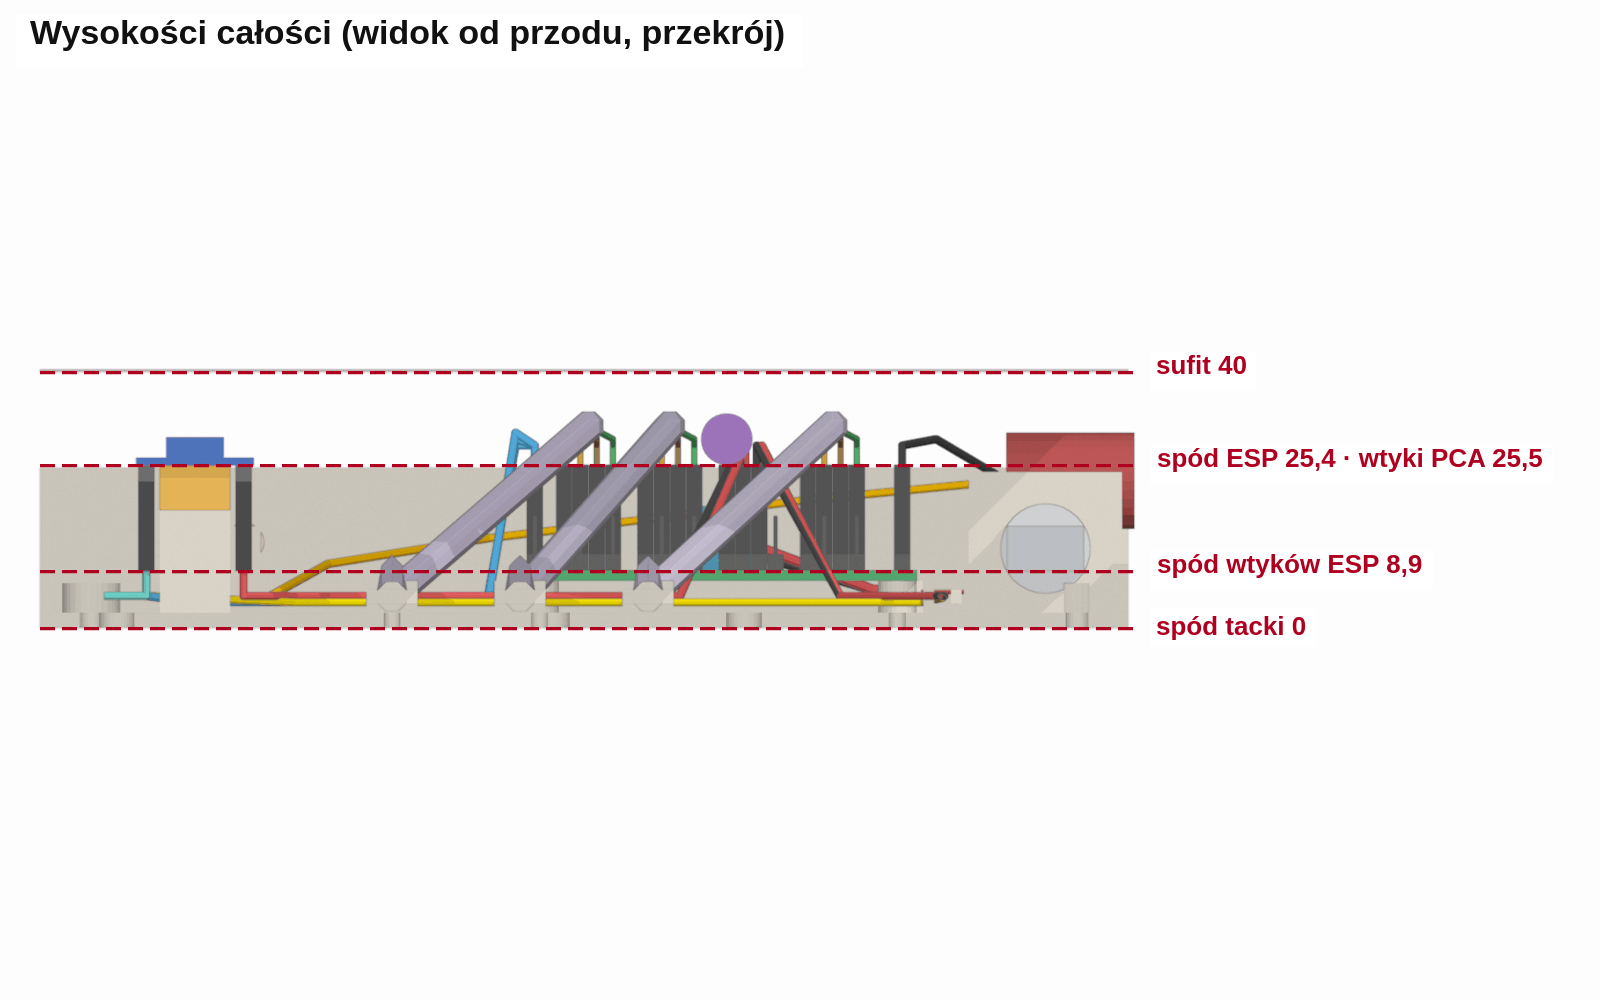
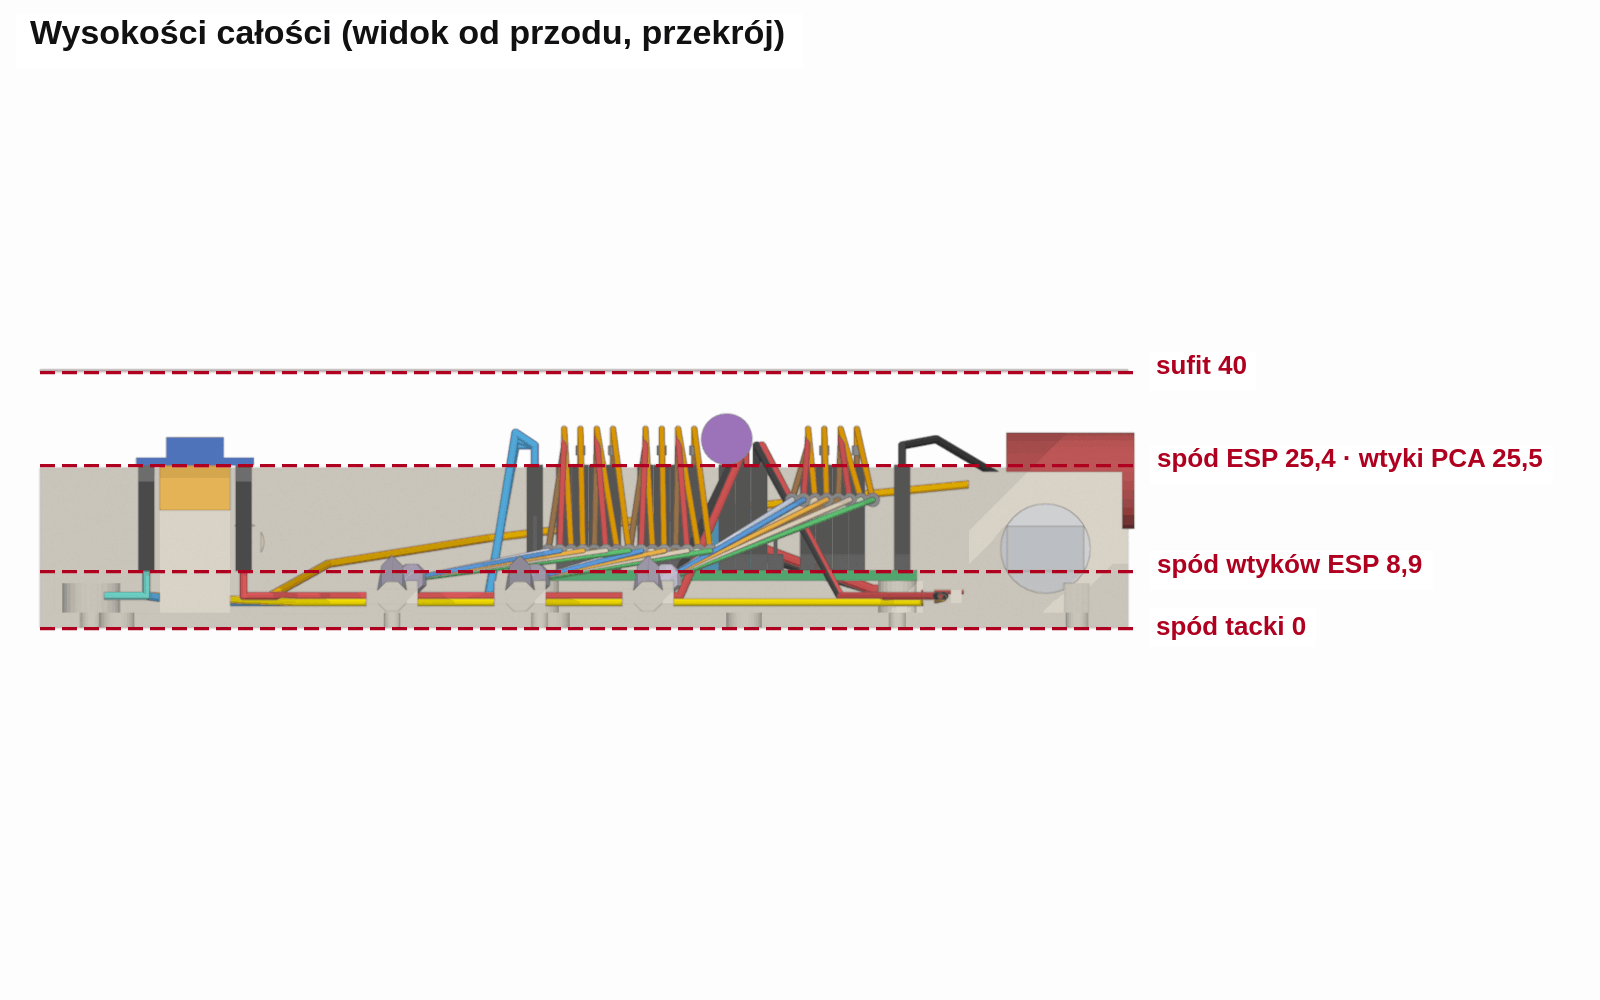
Obrazki skrętek pod wtyczki serw: model, rendery 07/07b/07c, schematy lutowania 07d i 07e, etykiety przycisku

Changed region(s): [[0.25, 0.403, 0.5625, 0.589]]

diff --git a/50-elektronika/montaz-elektroniki/schematy.py b/50-elektronika/montaz-elektroniki/schematy.py
@@ -1,0 +1,169 @@
+# Rysunki schematyczne skrętek do montaz-elektroniki.md, rozdział 5 (SVG → PNG przez rsvg-convert).
+# Użycie: python3 schematy.py   → img/krok07d-lutowanie-wtyczek.png, img/krok07e-serwa-strona-oczu.png
+# Wymaga: rsvg-convert (librsvg), czcionka Liberation Sans albo DejaVu Sans.
+import os, subprocess
+
+TU = os.path.dirname(os.path.abspath(__file__))
+IMG = os.path.join(TU, "img")
+FONT = "Liberation Sans, DejaVu Sans, Arial, sans-serif"
+
+# T568B: żyła → (nazwa, kolor bazowy, kolor paska lub None)
+ZYLA = {1: ("biało-pomarańczowa", "#ffffff", "#f07f12"), 2: ("pomarańczowa", "#f07f12", None),
+        3: ("biało-zielona", "#ffffff", "#1f9a2f"), 4: ("niebieska", "#1f5fd1", None),
+        5: ("biało-niebieska", "#ffffff", "#1f5fd1"), 6: ("zielona", "#1f9a2f", None),
+        7: ("biało-brązowa", "#ffffff", "#7a4a1e"), 8: ("brązowa", "#7a4a1e", None)}
+SERWO = {"b": ("brązowy", "#6b3a17"), "c": ("czerwony", "#d81e1e"), "p": ("pomarańczowy", "#f06a00")}
+KOSZ = "#5c5c5c"
+
+def tekst(x, y, t, size=22, kolor="#111", anchor="start", bold=False):
+    w = ' font-weight="bold"' if bold else ""
+    return f'<text x="{x}" y="{y}" font-family="{FONT}" font-size="{size}" fill="{kolor}" text-anchor="{anchor}"{w}>{t}</text>'
+
+def przewod(d, kolor, pasek=None, sz=10):
+    """d: ścieżka SVG; obrys ciemny, biała obwódka (czytelne skrzyżowania), kolor, ewentualny pasek."""
+    s = f'<path d="{d}" fill="none" stroke="#ffffff" stroke-width="{sz + 8}" stroke-linecap="round"/>'
+    s += f'<path d="{d}" fill="none" stroke="#333" stroke-width="{sz + 2}" stroke-linecap="round"/>'
+    s += f'<path d="{d}" fill="none" stroke="{kolor}" stroke-width="{sz}" stroke-linecap="round"/>'
+    if pasek:
+        s += f'<path d="{d}" fill="none" stroke="{pasek}" stroke-width="{sz}" stroke-dasharray="14 10"/>'
+    return s
+
+def zyla(d, z, sz=10):
+    _, k, p = ZYLA[z]
+    return przewod(d, k, p, sz)
+
+def koszulka(x, y, w=80, h=22):
+    return f'<rect x="{x}" y="{y - h / 2}" width="{w}" height="{h}" rx="6" fill="{KOSZ}" stroke="#222" stroke-width="2"/>'
+
+def zapisz(nazwa, w, h, tresc):
+    svg = (f'<svg xmlns="http://www.w3.org/2000/svg" width="{w}" height="{h}" viewBox="0 0 {w} {h}">'
+           f'<rect width="{w}" height="{h}" fill="#ffffff"/>{tresc}</svg>')
+    p_svg = os.path.join(IMG, nazwa + ".svg")
+    open(p_svg, "w", encoding="utf-8").write(svg)
+    p_png = os.path.join(IMG, nazwa + ".png")
+    subprocess.run(["rsvg-convert", "-w", str(w), "-b", "white", "-o", p_png, p_svg], check=True)
+    os.remove(p_svg)
+    print("ZAPISANO", p_png)
+
+def strzalka_wym(x0, x1, y, t):
+    s = f'<line x1="{x0}" y1="{y}" x2="{x1}" y2="{y}" stroke="#b00020" stroke-width="3"/>'
+    for x, d in ((x0, 1), (x1, -1)):
+        s += f'<path d="M{x},{y} l{14 * d},-8 l0,16 z" fill="#b00020"/>'
+        s += f'<line x1="{x}" y1="{y - 16}" x2="{x}" y2="{y + 16}" stroke="#b00020" stroke-width="2"/>'
+    return s + tekst((x0 + x1) / 2, y - 14, t, 22, "#b00020", "middle", True)
+
+# ---------- krok07d: strona tacki – żyły do wtyczek odciętych od serw ----------
+def krok07d():
+    W, H = 1600, 1060
+    s = tekst(30, 52, "5  Strona tacki: żyły skrętki → 4 wtyczki odcięte od serw (T568B)", 34, bold=True)
+    s += tekst(30, 88, "każdy lut w koszulce · przewód wtyczki: brązowy GND, czerwony V+, pomarańczowy sygnał · brązowy od krawędzi płytki", 21, "#555")
+    # wiersze: (wtyczka, przewód wtyczki, żyła albo None = obcięty)
+    WIERSZE = []
+    grupy = [("A", "n", {"b": 5, "c": 4, "p": 1}), ("B", "n+1", {"b": None, "c": None, "p": 2}),
+             ("C", "n+2", {"b": 8, "c": 7, "p": 3}), ("D", "n+3", {"b": None, "c": None, "p": 6})]
+    y0, dy, dg = 190, 42, 66
+    yc = 0
+    for gi, (lit, kan, m) in enumerate(grupy):
+        for ri, r in enumerate("bcp"):
+            WIERSZE.append((lit, kan, r, m[r], y0 + gi * (3 * dy + dg) + ri * dy))
+    xj, xr, xk, xw, xp = 300, 470, 760, 840, 1180          # koniec płaszcza, początek prostej, koszulka, przewód wtyczki, wtyczka
+    yj = (WIERSZE[0][4] + WIERSZE[-1][4]) / 2
+    # płaszcz
+    s += f'<rect x="30" y="{yj - 20}" width="{xj - 30}" height="40" rx="8" fill="#9b8fb0" stroke="#333" stroke-width="2"/>'
+    s += tekst(40, yj - 34, "skrętka – długi odcinek", 22, bold=True)
+    s += tekst(40, yj + 52, "do keystone'a w dyni", 20, "#555")
+    # żyły → koszulka → przewód wtyczki
+    aktywne = [w for w in WIERSZE if w[3]]
+    for i, (lit, kan, r, z, y) in enumerate(aktywne):
+        ys = yj - 14 + i * 4
+        s += zyla(f"M{xj},{ys} C{xj + 90},{ys} {xr - 90},{y} {xr},{y} L{xk},{y}", z)
+    for lit, kan, r, z, y in aktywne:
+        nazwa, kol = SERWO[r]
+        s += przewod(f"M{xw},{y} L{xp},{y}", kol)
+        s += koszulka(xk - 10, y)
+        s += tekst(xr + 6, y - 12, f"żyła {z} ({ZYLA[z][0]})", 20, bold=True)
+        s += tekst(xw + 14, y - 12, nazwa, 18, "#444")
+    # obcięte brązowy i czerwony (B, D)
+    for lit, kan, r, z, y in WIERSZE:
+        if z is None:
+            nazwa, kol = SERWO[r]
+            s += przewod(f"M{xp - 40},{y} L{xp},{y}", kol)
+            s += f'<rect x="{xp - 64}" y="{y - 10}" width="28" height="20" rx="5" fill="{KOSZ}" stroke="#222" stroke-width="2"/>'
+            s += tekst(xp - 76, y + 7, f"{nazwa}: obcięty, zaizolowany", 19, "#444", "end")
+    # wtyczki i piny
+    for gi, (lit, kan, m) in enumerate(grupy):
+        ys = [w[4] for w in WIERSZE if w[0] == lit]
+        s += f'<rect x="{xp}" y="{ys[0] - 24}" width="64" height="{ys[2] - ys[0] + 48}" rx="5" fill="#202020"/>'
+        s += tekst(xp + 32, ys[1] + 12, lit, 34, "#ffffff", "middle", True)
+        for y, pin in zip(ys, ("GND", "V+", "sygnał")):
+            s += tekst(xp + 76, y + 7, pin, 19, "#333")
+        s += tekst(xp + 160, ys[1] - 4, f"wtyczka {lit}", 26, bold=True)
+        s += tekst(xp + 160, ys[1] + 26, f"→ kanał {kan}", 22)
+        if not m["b"]:
+            s += tekst(xp + 160, ys[1] + 54, "tylko sygnał", 22, "#b00020", bold=True)
+    # wymiary i opisy
+    s += f'<line x1="{xk + 20}" y1="{WIERSZE[0][4] - 12}" x2="{xk - 40}" y2="{WIERSZE[0][4] - 46}" stroke="#555" stroke-width="2"/>'
+    s += tekst(xk - 46, WIERSZE[0][4] - 44, "lut w koszulce", 20, "#333", "end")
+    s += strzalka_wym(xw - 40, xp, 128, "ok. 5 cm przewodu przy wtyczce")
+    yb = WIERSZE[-1][4] + 70
+    s += strzalka_wym(xj, xk + 70, yb, "płaszcz zdjęty ok. 80 mm")
+    s += tekst(30, H - 40, "n: lewa skrętka 0 · prawa 4 · duże oko 12.  Wtyczki A–D wpinasz w kolejne kanały n…n+3, brązowy przewód od krawędzi płytki (GND).", 21, "#111")
+    zapisz("krok07d-lutowanie-wtyczek", W, H, s)
+
+# ---------- krok07e: krótki odcinek – serwa lutowane do żył ----------
+def krok07e():
+    W, H = 1600, 1080
+    s = tekst(30, 52, "5  Krótki odcinek (keystone → oczy): serwa A–D lutowane wprost do żył", 34, bold=True)
+    s += tekst(30, 88, "każdy lut w koszulce · serwa A i B dzielą żyły 4 (V+) i 5 (GND), serwa C i D – żyły 7 (V+) i 8 (GND)", 21, "#555")
+    xj, xr, xk, xs = 300, 480, 760, 1150   # koniec płaszcza, początek prostej, koszulka, serwo
+    # serwa: litera, kanał, przewody od góry
+    serwa = [("A", "n", "pcb", 190), ("B", "n+1", "bcp", 400), ("C", "n+2", "pcb", 600), ("D", "n+3", "bcp", 810)]
+    yw = {}
+    for lit, kan, kol, yt in serwa:
+        for i, r in enumerate(kol):
+            yw[(lit, r)] = yt + i * 34
+    # żyła → wiersz koszulki, cele (serwo, przewód)
+    pol = [(1, [("A", "p")]), (4, [("A", "c"), ("B", "c")]), (5, [("A", "b"), ("B", "b")]), (2, [("B", "p")]),
+           (3, [("C", "p")]), (7, [("C", "c"), ("D", "c")]), (8, [("C", "b"), ("D", "b")]), (6, [("D", "p")])]
+    yk = {1: 190, 4: 285, 5: 375, 2: 468, 3: 600, 7: 695, 8: 785, 6: 878}
+    yj = (yk[1] + yk[6]) / 2
+    # wtyk RJ45 i płaszcz
+    s += f'<rect x="30" y="{yj - 30}" width="110" height="60" rx="6" fill="#e9eef2" stroke="#333" stroke-width="3"/>'
+    s += f'<rect x="20" y="{yj - 12}" width="14" height="24" fill="#c9d2da" stroke="#333" stroke-width="2"/>'
+    s += f'<rect x="140" y="{yj - 18}" width="{xj - 140}" height="36" rx="8" fill="#9b8fb0" stroke="#333" stroke-width="2"/>'
+    s += tekst(30, yj - 46, "wtyk RJ45 (T568B)", 22, bold=True)
+    s += tekst(30, yj + 62, "→ do keystone'a w dyni", 20, "#555")
+    # przewody serw (najpierw, żeby żyły i koszulki leżały na wierzchu)
+    for z, cele in pol:
+        for lit, r in cele:
+            y1 = yw[(lit, r)]
+            s += przewod(f"M{xk + 70},{yk[z]} C{xk + 200},{yk[z]} {xs - 170},{y1} {xs - 40},{y1} L{xs},{y1}", SERWO[r][1])
+    for i, (z, cele) in enumerate(pol):
+        y = yk[z]
+        ys = yj - 14 + i * 4
+        s += zyla(f"M{xj},{ys} C{xj + 90},{ys} {xr - 90},{y} {xr},{y} L{xk},{y}", z)
+        s += koszulka(xk - 10, y)
+        opis = " + ".join(f"{SERWO[r][0]} {lit}" for lit, r in cele)
+        s += tekst(xr + 6, y - 12, f"żyła {z} ({ZYLA[z][0]})", 20, bold=True)
+        s += tekst(xr + 6, y + 32, "→ " + ("razem: " if len(cele) > 1 else "") + opis, 18, "#444")
+    # serwa
+    for lit, kan, kol, yt in serwa:
+        s += f'<rect x="{xs}" y="{yt - 30}" width="190" height="{2 * 34 + 60}" rx="10" fill="#1f5fd1" stroke="#123" stroke-width="2"/>'
+        s += tekst(xs + 95, yt + 30, f"serwo {lit}", 28, "#ffffff", "middle", True)
+        s += tekst(xs + 95, yt + 62, f"kanał {kan}", 20, "#ffffff", "middle")
+    s += tekst(xs + 210, 224, "opisz serwo", 20, "#555")
+    s += tekst(xs + 210, 250, "literą i kanałem", 20, "#555")
+    # test przed lutowaniem serw
+    yb = 940
+    s += f'<rect x="30" y="{yb}" width="{W - 60}" height="110" rx="10" fill="#fff4f4" stroke="#b00020" stroke-width="3"/>'
+    s += f'<circle cx="95" cy="{yb + 55}" r="34" fill="#ffffff" stroke="#b00020" stroke-width="4"/>' + tekst(95, yb + 67, "V", 34, "#b00020", "middle", True)
+    s += tekst(150, yb + 42, "Przed lutowaniem serw zmierz ok. 5 V między żyłą 4 i 5 oraz między żyłą 7 i 8", 25, "#b00020", bold=True)
+    s += tekst(150, yb + 80, "(wolny koniec krótkiego odcinka; długi odcinek wpięty w PCA i keystone, krótki z wtykiem w keystone, zasilanie włączone)", 19, "#333")
+    s += tekst(xs - 10, 140, "n: lewa 0 · prawa 4 · duże oko 12", 20, "#333")
+    s += tekst(30, 140, "duże oko: A = L–P (12), B = G–D (13), C = powieka górna (14), D = powieka dolna (15)", 20, "#333")
+    zapisz("krok07e-serwa-strona-oczu", W, H, s)
+
+if __name__ == "__main__":
+    os.makedirs(IMG, exist_ok=True)
+    krok07d()
+    krok07e()

diff --git a/50-elektronika/montaz-elektroniki/render.py b/50-elektronika/montaz-elektroniki/render.py
@@ -36,6 +36,10 @@ def eY(k): return 18.3 + k * gp
 eDupBot = 25.4 - 2.5 - 14                         # 8,9
 SUFIT = 40
 gX, gY, gZ = 157.1, 48, 2.4 + 9 + 1
+SK = [(50, 55, 0), (63, 75, 4), (76, 95, 12)]       # skrętki: x nad otworem, x uchwytu, n (jak sk w elementy.scad)
+def skXg(s): return (chX(SK[s][2]) + chX(SK[s][2] + 3)) / 2
+def skTr(s, t): return (SK[s][1] + t * (skXg(s) - SK[s][1]), 20 + t * 16, 5 + t * (dupTop + 1))
+def skLut(s, k): return (skXg(s) + (k - 3.5) * 1.8, 26 if k % 2 else 33, 20 if s == 2 else 12)   # lut k: A brąz., A czerw., A pom., B pom., C brąz., C czerw., C pom., D pom.
 
 # ---------- kolory ----------
 def rgb(h): return tuple(int(h[i:i + 2], 16) / 255 for i in (1, 3, 5))
@@ -47,11 +51,14 @@ KOL = {
     "kondensator": "#7b3fb0", "kondWtyki": "#202020",
     "pirVCC": "#d81e1e", "pirGND": "#141414", "pirOUT": "#f2c200", "pirWtyki": "#202020",
     "przycisk": "#8b1a1a", "przyciskGND": "#141414", "przyciskSyg": "#ff8c00", "przyciskWtyk": "#202020",
-    "skL": "#8e7fa6", "skP": "#7f7896", "skD": "#9b8fb0", "skZyly": "#ffffff", "skWtyki": "#202020",
+    "skL": "#8e7fa6", "skP": "#7f7896", "skD": "#9b8fb0",
+    "skWtyczki": "#202020", "skPrzewBraz": "#6b3a17", "skPrzewCzerw": "#d81e1e", "skPrzewPom": "#f06a00", "skKoszulki": "#5c5c5c",
     "rezystor": "#e2c99a",
 }
-# T568B: żyła 1..8
+# T568B: żyła 1..8 (grupy skZyla1 … skZyla8)
 ZYLY = {1: "#f7c79a", 2: "#f07f12", 3: "#a8e0a0", 4: "#1f5fd1", 5: "#a9c4f0", 6: "#1f9a2f", 7: "#d2b48c", 8: "#7a4a1e"}
+for _z, _k in ZYLY.items():
+    KOL["skZyla%d" % _z] = _k
 GRUPY = list(KOL)
 
 def przygas(c):  # wcześniejsze elementy: jaśniej i szarzej
@@ -97,31 +104,6 @@ for g in GRUPY:
     o.name = g
     obj[g] = o
     o.data.materials.append(mat(rgb(KOL[g])))
-
-# żyły skrętek: kolor T568B wg najbliższego odcinka trasy (trasa jak skretkaZyla w elementy.scad)
-def trasy_zyl():
-    t = []
-    for n in (0, 4, 12):
-        xg = (chX(n) + chX(n + 3)) / 2
-        cel = {1: (chX(n), rowY[2]), 2: (chX(n + 1), rowY[2]), 3: (chX(n + 2), rowY[2]), 6: (chX(n + 3), rowY[2]),
-               4: (chX(n), rowY[1]), 5: (chX(n), rowY[0]), 7: (chX(n + 2), rowY[1]), 8: (chX(n + 2), rowY[0])}
-        for z, (x, y) in cel.items():
-            p = [Vector((xg, 36, dupTop + 6)), Vector((x, y - 3, dupTop + 4)), Vector((x, y, dupTop + 3)), Vector((x, y, dupTop))]
-            t.append((z, p))
-    return t
-def odl_odc(p, a, b):
-    ab = b - a
-    s = max(0.0, min(1.0, (p - a).dot(ab) / ab.length_squared))
-    return (a + ab * s - p).length
-o = obj["skZyly"]
-o.data.materials.clear()
-for z in range(1, 9):
-    o.data.materials.append(mat(rgb(ZYLY[z])))
-tr = trasy_zyl()
-for f in o.data.polygons:
-    c = f.center
-    best = min(((min(odl_odc(c, p[i], p[i + 1]) for i in range(3)), z) for z, p in tr))
-    f.material_index = best[1] - 1
 
 # kolory bazowe slotów (do przygaszania)
 BAZA = {g: [tuple(m.diffuse_color)[:3] for m in obj[g].data.materials] for g in GRUPY}
@@ -210,7 +192,7 @@ K3 = ["gniazdo", "wtykCC", "zasilCzerw", "zasilCzarny"]
 K4 = ["esp5V", "espG", "espI2C", "espPCAwtyki", "zapasESP"]
 K5 = ["kondensator", "kondWtyki"]
 K6 = ["pirVCC", "pirGND", "pirOUT", "pirWtyki", "przycisk", "przyciskGND", "przyciskSyg", "przyciskWtyk"]
-K7 = ["skL", "skP", "skD", "skZyly", "skWtyki"]
+K7 = ["skL", "skP", "skD", "skWtyczki", "skPrzewBraz", "skPrzewCzerw", "skPrzewPom", "skKoszulki"] + ["skZyla%d" % z for z in range(1, 9)]
 WSZ = K1 + K2 + K3 + K4 + K5 + K6 + K7 + ["rezystor"]
 ISO = (-0.75, -1.35, 1.25)
 CZ, NI, ZI, ZO, PO, FI, SZ = "#d81e1e", "#1e78d8", "#1f8a3a", "#c89a00", "#f28c1c", "#7b3fb0", "#333333"
@@ -309,44 +291,46 @@ krok("krok05-kondensator", "4.5  Kondensator na kanale 8 (leży poziomo do przod
 krok("krok06-pir-przycisk", "4.6  PIR i przycisk", K6, K1 + K2 + K3 + K4 + K5, ((90, 50, 12), ISO, 190), [
     ("PIR (od szufladki): VCC, GND, OUT", (150, 10, 5), (1300, 860), ZO),
     ("PIR OUT → ESP pin 10", (40, 22, 4), (330, 860), ZO),
-    ("przycisk → ESP pin 4", (70, 82, 14), (350, 200), "#ff8c00"),
-    ("przycisk → GND prawej listwy", (bokXP, bokY(0), dupTop + 3), (1180, 160), SZ),
+    ("przycisk nóżka 1 → ESP pin 4", (70, 82, 14), (350, 200), "#ff8c00"),
+    ("przycisk nóżka 2 → GND prawej listwy", (bokXP, bokY(0), dupTop + 3), (1130, 160), SZ),
     ("PIR VCC / GND → kanał 10", (125, 30, 5), (900, 880), CZ),
 ])
 krok("krok06b-kanal10-przycisk", "4.6  Zbliżenie: kanał 10 i prawa listwa", K6, K1 + K2 + K3 + K4 + K5, ((118, 52, 22), (0.2, -1.0, 1.5), 55), [
     ("kanał 10 V+ ← PIR VCC (czerwony)", (chX(10), rowY[1], dP), (480, 840), CZ),
     ("kanał 10 GND ← PIR GND (czarny)", (chX(10), rowY[0], dupTop - 2), (1000, 900), SZ),
-    ("prawa listwa GND ← przycisk", (bokXP, bokY(0), dP), (1250, 250), SZ),
+    ("prawa listwa GND ← przycisk nóżka 2", (bokXP, bokY(0), dP), (1180, 250), SZ),
     ("kanał 8: kondensator", (chX(8) - 1, 40.5, dupTop + 4), (330, 300), FI),
     ("kanał 9: ESP", (chX(9), rowY[1], dP + 1.5), (380, 500), CZ),
 ])
 krok("krok06c-esp-piny", "4.6  PIR i przycisk na pinach ESP (od przodu z dołu, tacka ukryta)", K6, K2 + K4, SPOD, [
     ("10 ← PIR OUT", pinESP(0, 5, 6.5), (260, None), ZO),
-    ("4 ← przycisk", pinESP(1, 3, 6.5), (1400, 560), "#ff8c00"),
+    ("4 ← przycisk nóżka 1", pinESP(1, 3, 6.5), (1360, 560), "#ff8c00"),
 ], ukryj=[g for g in NIE_ESP if g not in K4 + K6] + ["przycisk"])
 krok("krok07-skretki", "4.7  Skrętki do oczu (po jednej, z testem)", K7, K1 + K2 + K3 + K4 + K5 + K6, ((90, 35, 18), ISO, 150), [
     ("lewa: kanały 0–3", (55, 9, 12), (330, 850), FI),
     ("prawa: kanały 4–7", (75, 9, 12), (760, 900), FI),
     ("duże oko: kanały 12–15", (95, 9, 12), (1200, 870), FI),
     ("do otworu w płycie", (63, 6, 40), (450, 200), FI),
+    ("4 wtyczki serw A–D na skrętkę", (chX(13), rowY[1] - 3.8, dupTop - 4), (1250, 330), SZ),
+    ("8 lutów w koszulce na skrętkę", skLut(1, 6), (260, 560), SZ),
 ])
-krok("krok07b-skretki-listwa", "4.7  Zbliżenie: skrętki na listwie kanałów", K7, K1 + K2 + K3 + K4 + K5 + K6, ((103, 48, 24), (0, -1.0, 1.6), 62), [
-    ("lewa: 0–3", (chX(1), rowY[2], dupTop + 3), (330, 200), FI),
-    ("prawa: 4–7", (chX(5), rowY[2], dupTop + 3), (760, 200), FI),
-    ("duże oko: 12–15", (chX(13), rowY[2], dupTop + 3), (1300, 200), FI),
-    ("kanał 0 (sprawdź na płytce)", (chX(0), rowY[2], dupTop + 3), (260, 880), SZ),
+krok("krok07b-skretki-listwa", "4.7  Zbliżenie: wtyczki skrętek na listwie kanałów", K7, K1 + K2 + K3 + K4 + K5 + K6, ((103, 47, 25), (0.1, -1.0, 0.9), 62), [
+    ("lewa: 0–3", (chX(1), rowY[2], dupTop + 1), (330, 200), FI),
+    ("prawa: 4–7", (chX(5), rowY[2], dupTop + 1), (760, 200), FI),
+    ("duże oko: 12–15", (chX(13), rowY[2], dupTop + 1), (1300, 200), FI),
+    ("kanał 0 (sprawdź na płytce)", (chX(0), rowY[2], dupTop + 1), (260, 880), SZ),
     ("kanały 8–10: kond., ESP, PIR", (chX(9), rowY[1], dP + 2), (1100, 900), SZ),
     ("11: wolny", (chX(11), rowY[2], 17.5), (1480, 520), "#888888"),
+    ("brązowy od krawędzi (GND)", (chX(4) - 1.5, 40, 20), (700, 900), "#6b3a17"),
 ])
-krok("krok07c-zyly-kanaly0-3", "4.7  Żyły lewej skrętki (kanały 0–3, T568B)", K7, K1 + K2 + K3 + K4 + K5 + K6, ((chX(1.5) - 1.27, 48, 27), (-0.55, -1.0, 0.9), 34), [
-    ("żyła 1 → sygnał 0", (chX(0), rowY[2], dP), (300, 200), "#f07f12"),
-    ("żyła 2 → sygnał 1", (chX(1), rowY[2], dP), (720, 160), "#f07f12"),
-    ("żyła 3 → sygnał 2", (chX(2), rowY[2], dP), (1100, 160), ZI),
-    ("żyła 6 → sygnał 3", (chX(3), rowY[2], dP), (1400, 280), ZI),
-    ("żyła 4 → V+ kanału 0", (chX(0), rowY[1], dP), (230, 470), NI),
-    ("żyła 5 → GND kanału 0", (chX(0), rowY[0], dP), (240, 760), NI),
-    ("żyła 7 → V+ kanału 2", (chX(2), rowY[1], dP), (1400, 560), "#7a4a1e"),
-    ("żyła 8 → GND kanału 2", (chX(2), rowY[0], dP), (1350, 800), "#7a4a1e"),
+krok("krok07c-zyly-kanaly0-3", "4.7  Wtyczki lewej skrętki na kanałach 0–3", K7, K1 + K2 + K3 + K4 + K5 + K6, ((chX(1) + 1.27, 46, 26), (-0.6, -1.0, 0.65), 40), [
+    ("wtyczka A (kanał 0): żyły 5 / 4 / 1", (chX(0), rowY[1] - 3.8, 19), (300, 640), SZ),
+    ("B (kanał 1): tylko żyła 2", (chX(1), rowY[2], dupTop + 3.6), (380, 110), "#f06a00"),
+    ("C (kanał 2): 8 / 7 / 3", (chX(2), rowY[1], dupTop + 3.2), (1000, 110), SZ),
+    ("D (kanał 3): tylko żyła 6", (chX(3), rowY[2], dupTop + 3.6), (1350, 200), "#f06a00"),
+    ("brązowy od krawędzi (GND)", (chX(0), rowY[0], dupTop + 1), (280, 470), "#6b3a17"),
+    ("B, D: brązowy i czerwony obcięte, zaizolowane", (chX(3), rowY[0], dupTop + 2.8), (1180, 470), "#5c5c5c"),
+    ("brązowy GND · czerwony V+ · pomarańczowy sygnał", None, (800, 950), "#f06a00"),
 ], legenda=False)
 krok("krok08-wysokosci", "Wysokości całości (widok od przodu, przekrój)", WSZ, [], ((118.75, 40, 20), (0, -1, 0), 250, 28), [],
      sufit=True, poziomy=[

diff --git a/50-elektronika/montaz-elektroniki.md b/50-elektronika/montaz-elektroniki.md
@@ -4,7 +4,7 @@ Stan 28.10. Pinout i rysunki: `polaczenia.md`, sekcja „Dynia: połączenia doc
 
 Wymiary wtyków i listew to wartości typowe (obudowa Dupont 14 mm, plastik listwy pinów 2,5 mm). Przed klejeniem ESP sprawdź jedną wtyczką (krok 2).
 
-Obrazki wygenerowano z modelu `montaz-elektroniki/elementy.scad` (tacka z commita 8a07059; render: `montaz-elektroniki/render.py`), wymiary kupnych części są typowe; kontrola kolizji (`eksport.sh`): wtyki, ESP, kondensator, przycisk i PCA bez kolizji z tacką, przewody i elementy poniżej spodu płyty, kolizja tylko rezystora z tylnym pasem.
+Obrazki wygenerowano z modelu `montaz-elektroniki/elementy.scad` (tacka z commita 8a07059; render: `montaz-elektroniki/render.py`; schematy lutowania 07d i 07e: `montaz-elektroniki/schematy.py`), wymiary kupnych części są typowe; kontrola kolizji (`eksport.sh`): wtyki, ESP, kondensator, przycisk i PCA bez kolizji z tacką, przewody i elementy poniżej spodu płyty, kolizja tylko rezystora z tylnym pasem.
 
 ![Całość na tacce](montaz-elektroniki/img/krok00-calosc.png)
 
@@ -40,7 +40,7 @@ Obrazki wygenerowano z modelu `montaz-elektroniki/elementy.scad` (tacka z commit
 | 9 | PIR GND | kanał 10 GND | czarny | 400, przyciąć | kabel DFRobot na PIR (środkowy przewód = OUT – sprawdź) / lut + żeńska połówka |
 | 10 | PIR OUT | ESP 10 | żółty | 450, przyciąć | kabel DFRobot na PIR (środkowy przewód = OUT – sprawdź) / lut + żeńska połówka |
 | 11 | przycisk nóżka 2 | prawa listwa GND | czarny | 100 | lut + koszulka / Dupont |
-| 12 | przycisk nóżka 1 | ESP 4 | żółty | 260 | lut + koszulka / Dupont |
+| 12 | przycisk nóżka 1 | ESP 4 | pomarańczowy (żółty ma PIR OUT) | 260 | lut + koszulka / Dupont |
 | 13 | ESP 3 | – (zapas) | dowolny | 200 | Dupont / koniec zaizolowany |
 | 14 | ESP 5 | – (zapas) | dowolny | 200 | Dupont / koniec zaizolowany |
 
@@ -131,6 +131,8 @@ Wtyczkę odcinasz ok. 5 cm od obudowy (przewody przy wtyczce do lutowania), resz
    - wtyczka B: pomarańczowy ← żyła 2; brązowy i czerwony obcięte i zaizolowane;
    - wtyczka C: brązowy ← żyła 8, czerwony ← żyła 7, pomarańczowy ← żyła 3;
    - wtyczka D: pomarańczowy ← żyła 6; brązowy i czerwony obcięte i zaizolowane.
+
+   ![Strona tacki: żyły skrętki do wtyczek A–D](montaz-elektroniki/img/krok07d-lutowanie-wtyczek.png)
 2. Wpięcie: A na kanał n, B na n+1, C na n+2, D na n+3 – brązowy przewód od krawędzi płytki (GND). Wynik jak w tabeli w `polaczenia.md`: żyły 1, 2, 3, 6 – sygnały n…n+3; 4 / 5 – V+ / GND kanału n; 7 / 8 – V+ / GND kanału n+2.
 
    ![Żyły lewej skrętki na kanałach 0–3](montaz-elektroniki/img/krok07c-zyly-kanaly0-3.png)
@@ -145,5 +147,7 @@ Wtyczkę odcinasz ok. 5 cm od obudowy (przewody przy wtyczce do lutowania), resz
    - C i D: oba czerwone ← żyła 7, oba brązowe ← żyła 8.
    - serwo opisz literą i numerem kanału.
 3. **Test przed lutowaniem serw:** długi odcinek wpięty w PCA i w keystone, krótki z wtykiem w keystone, zasilanie włączone: miernik między żyłą 4 i 5 oraz 7 i 8 na wolnym końcu krótkiego odcinka – ok. 5 V. Dopiero potem lutujesz serwa.
+
+   ![Krótki odcinek: serwa A–D lutowane do żył](montaz-elektroniki/img/krok07e-serwa-strona-oczu.png)
 
 Duże oko: A = L–P (12), B = G–D (13), C = powieka górna (14), D = powieka dolna (15).
